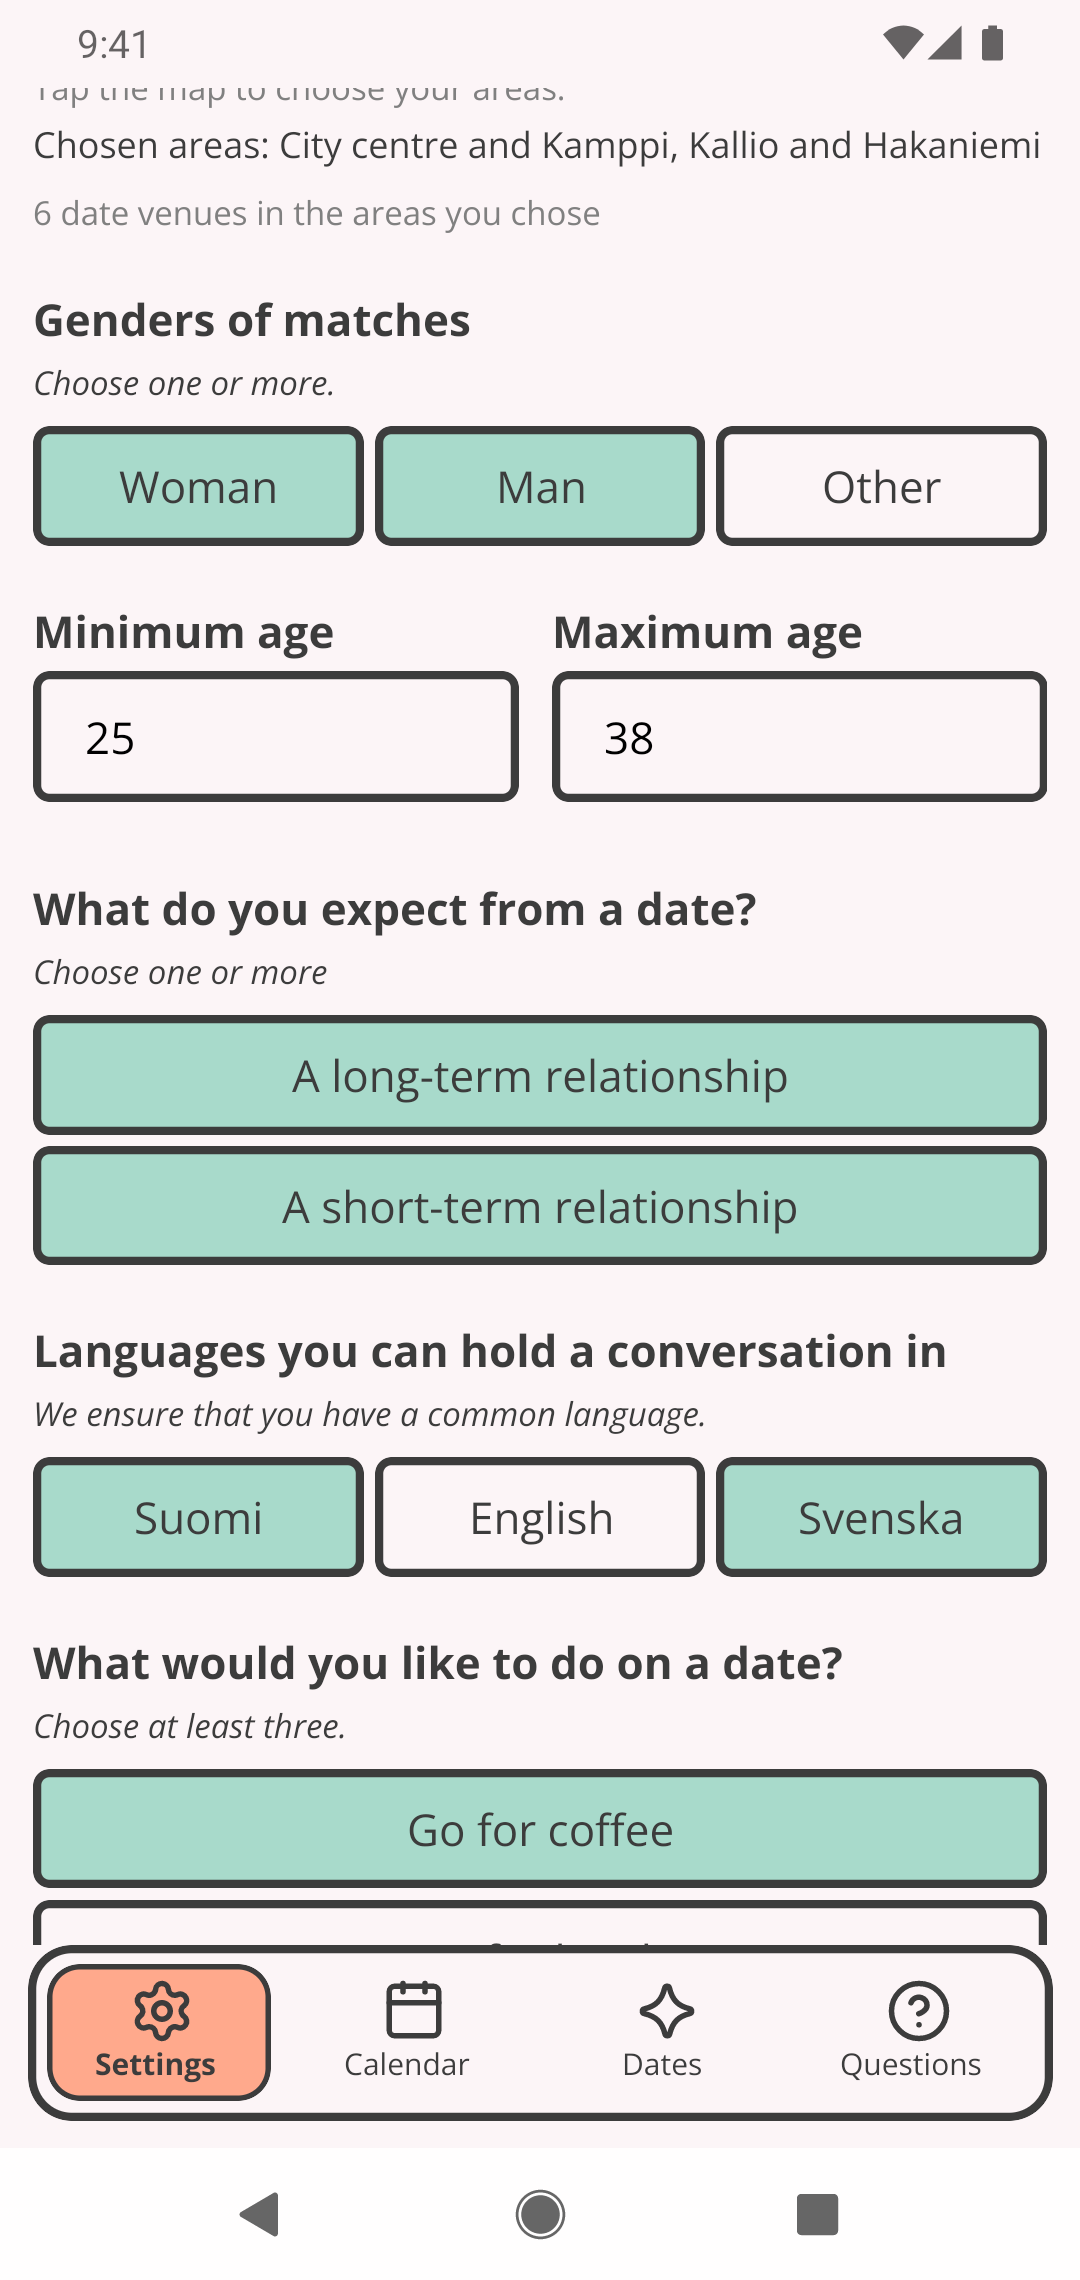
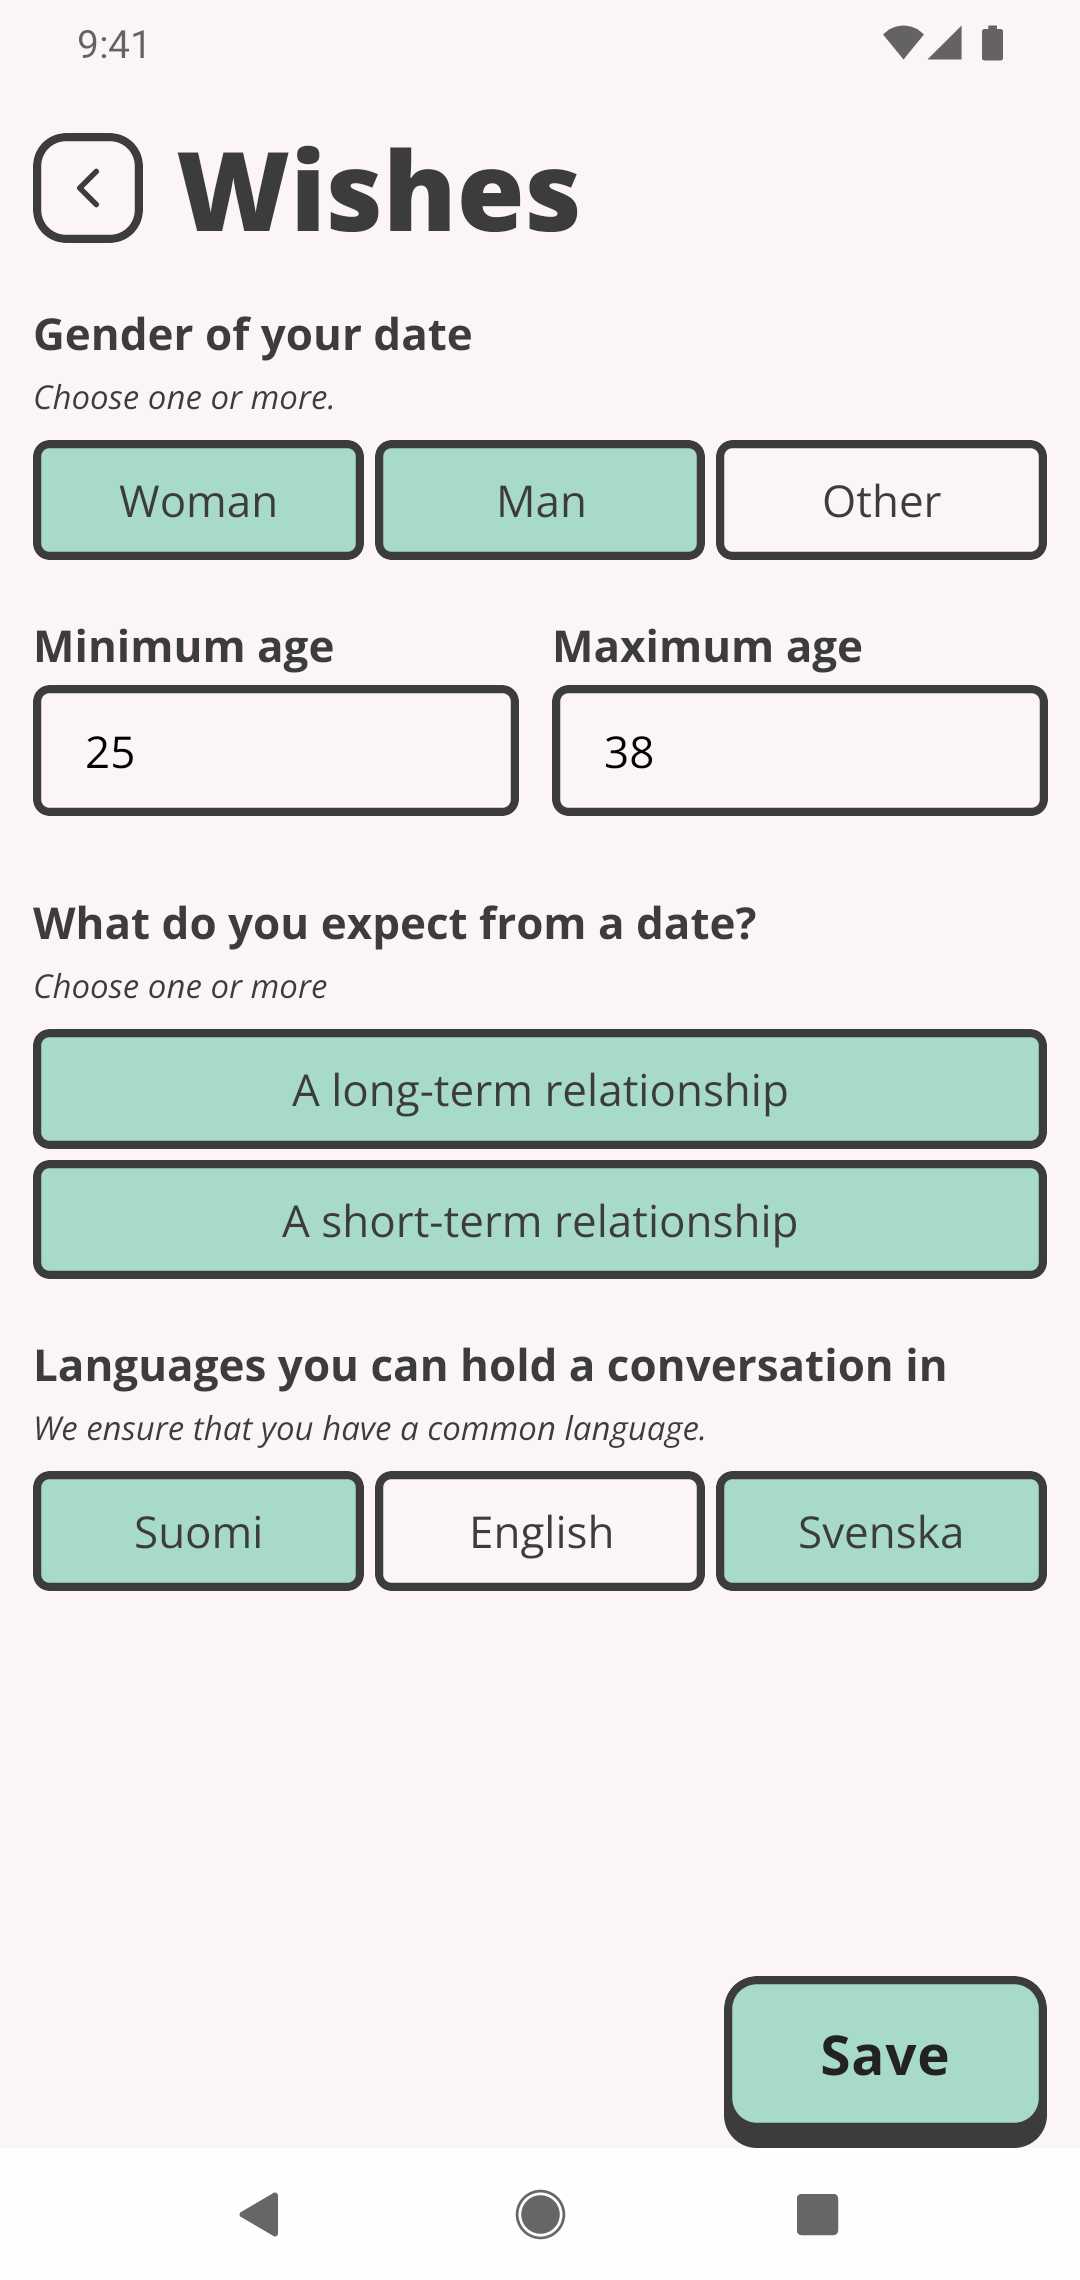
Pictures: the settings and Treffihistoria, retaken at pilke-app d22c518
- Näin se toimii, both languages: the partner wishes are Omat tiedot's
  Toiveet page now, with its pinned Tallenna.
- Turvallisuus and the manual's Tietosi ja tilisi: Asetukset as a store build
  draws it, so Tili ends on Poista tili and Sovelluksen kieli, with no
  tester-only Sisäiset työkalut row (the app's new `asReleased` launch).
- Treffien jälkeen: the way into Treffihistoria, which an empty Treffit now
  draws under Seuraavaksi for somebody who has had a date.
- The three cooldown notices, retaken: their account has no past date, so
  Seuraavaksi stands alone under them, as before.

The rest stand: their screens did not change since 5e2efe4.

Claude-Session: https://claude.ai/code/session_01GD9L6NkBiCqNs6T5pZN8hJ

Changed region(s): [[0.0, 0.0311, 0.9778, 0.9654], [0.825, 0.0623, 0.8556, 0.0934]]

diff --git a/docs/pictures.md b/docs/pictures.md
@@ -179,12 +179,12 @@ the flow inside it, and "in English" means that flow's copy derived by `manual-s
 | `feedback-en` | Date feedback, the facet question, English | `screenshotFeedback.yaml` in English, as Juho, whose account is English | The same step in English, `Continue`. Drawn on `/en` in place of `feedback` |
 | `mieltymykset` | Question set *Mieltymykset*, two answers picked | `screenshotMieltymykset.yaml`, as the platter's account, its Mieltymykset answers cleared before and after | The back button, the set's title and its `2/3` progress, *Haluan joskus lapsia* with *En osaa sanoa* picked, *Poltan tupakkaa* with *En, mutta se ei haittaa minua* picked, and the head of *Unelmoin maalla asumisesta*, at the top of the screen as it opens. Server copy in the account's language, so it goes stale on the survey's wording. Drawn on the front page's first step, under the page's own *Tulossa pian* chip |
 | `mieltymykset-en` | The same, English | `screenshotMieltymykset.yaml` in English | *Preferences*, *I can't say* and *No, but it doesn't bother me*. Drawn on `/en` in place of `mieltymykset` |
-| `preferences` | Settings, Omat tiedot, the partner preferences, on `nain-se-toimii`'s first section | `screenshotPreferences.yaml`, as the platter's account | `Treffikumppanin sukupuoli` with its three options, `Minimi-ikä` and `Maksimi-ikä` filled in on the screen (25 and 38, never saved), `Mitä odotat treffeiltä?` with both answers, the languages with Suomi and Svenska, the head of the activities, the tab bar. The chosen areas' line above them. No name and no photo |
-| `preferences-en` | The same, English | `screenshotPreferences.yaml` in English | The same questions in English. Drawn on `/en` in place of `preferences` |
+| `preferences` | Settings, Omat tiedot, the *Toiveet* page, on `nain-se-toimii`'s first section | `screenshotPreferences.yaml`, as the platter's account | The back button and the page's title `Toiveet`, `Treffikumppanin sukupuoli` with its three options, `Minimi-ikä` and `Maksimi-ikä` filled in on the screen (25 and 38, never saved), `Mitä odotat treffeiltä?` with both answers, the languages with Suomi and Svenska, and the page's pinned `Tallenna`. No tab bar, no name and no photo |
+| `preferences-en` | The same, English | `screenshotPreferences.yaml` in English | The same page in English, `Wishes` and `Save`. Drawn on `/en` in place of `preferences` |
 | `kalenteri` | Calendar, a week in use | `capture-kalenteri-busy.sh`, the `busy-week` step, as Veera's account | Three days of the week: free slots marked *Treffivaraus* in coral with their sparkles, the phone's own events hatched beside them, the yellow density shading, the ⋮ and (i) buttons, the tab bar. Drawn on `nain-se-toimii` |
 | `kalenteri-en` | Calendar, a week in use, English | the same step in English | The same week in English. Drawn on `/en` in place of `kalenteri` |
 | `story` | Story test, first question | `screenshotStory.yaml` | The wordmark on the yellow onboarding ground, the progress bar's five sections (*Profiili*, *Persoonallisuus*, *Toiveet*, *Paikat*, *Ajat*), the first scene in italic quotation marks and its options as cards with one picked, `Jatka`. Drawn on no page; the print kit's element library places it (`tools/print-kit/build.py`) |
-| `asetukset` | Settings, Safety open | `screenshots.yaml` | The accordion's sections with their icons and round chevrons, Safety open with its whole explanation, the trusted-contact field and its save button, the tab bar. The most copy of any picture here, so it goes stale on wording as well as on layout |
+| `asetukset` | Settings, Safety open | `screenshots.yaml`, launched `asReleased` so no tester-only row is drawn | The accordion's sections with their icons and round chevrons, Safety open with its whole explanation, the trusted-contact field and its save button, the tab bar. The most copy of any picture here, so it goes stale on wording as well as on layout |
 | `asetukset-en` | Settings, Safety open, English | `screenshots.yaml` in English | The same section in English, `Save number`. Drawn on `/en` in place of `asetukset` |
 | `hero-cutout-fi` | Home, populated, **inside a photograph, cut out** | `screens/treffit.png` composited by `scripts/photos/hero.py fi`, cut out by `scripts/photos/cutout.py` | Everything `treffit` shows, both Android bars included (the phone in the photo is an Android), bent round the phone's curved edges; the hand and phone only, transparent, on the page's coral disc, which clips the hand and arm; `hero-cutout-phone.png`, a mask of the same size, lets the phone and the fingers gripping it stand over the disc's edge, each by its own contour; the disc's circle is baked into both, so the page's geometry and `scripts/photos/cutout.py` change together. A reshoot of `treffit` reaches the page only through this composite |
 | `hero-cutout-en` | Home, English, **inside a photograph, cut out** | `scripts/photos/stills/treffit-en.png`, `screenshots.yaml` in English, composited by `hero.py en`, cut out with the Finnish one's alpha | The same fixture as `treffit`, in English: the three stacks, the spark counter (`Sparks:`), `Find dates!`, both Android bars |

diff --git a/docs/manual-shots.md b/docs/manual-shots.md
@@ -95,4 +95,6 @@ Four callouts need a word on where their bounds come from:
 
 In `asetukset-ilmoitukset` the flow centres the first editable row, so the channels' column headings and the three "Aina päällä" rows are in view above it.
 
+The settings stills are taken as a store build draws the tab (`asReleased` on the launch), so `asetukset-tili` ends on Poista tili, Sovelluksen kieli and Anna palautetta, with no tester-only *Sisäiset työkalut* row.
+
 Callouts are filled in by whoever writes the text. When the text needs a new callout, add the testID in the table above. The capture pipeline then records its bounds on the next run. If a testID does not exist in the app yet, the capture work adds it.
